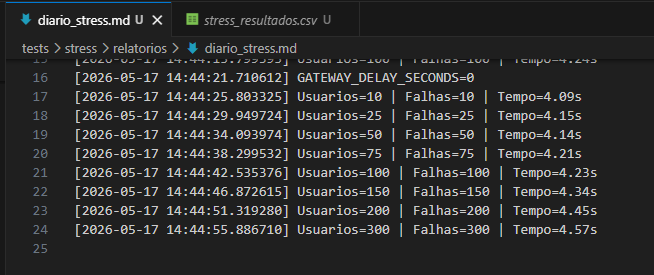
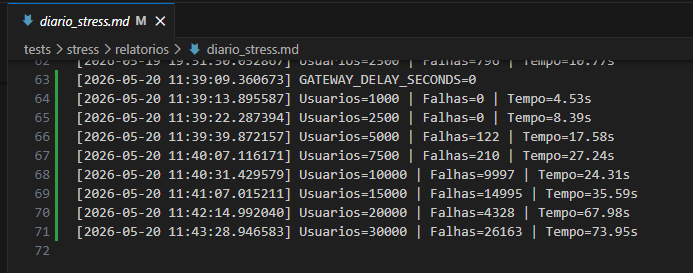
test: Novos testes e atualização da documentação técnica das análises

Changed region(s): [[0.0306, 0.1465, 0.9174, 0.9377], [0.0, 0.0, 0.2446, 0.1172], [0.2752, 0.0293, 0.5199, 0.1172]]

diff --git a/docs/MEUS_TESTES/ANALISE_STRESS.md b/docs/MEUS_TESTES/ANALISE_STRESS.md
@@ -16,7 +16,9 @@ Avaliar o comportamento da aplicação sob alta carga de usuários simultâneos,
 ```env
 GATEWAY_DELAY_SECONDS=0
 ```
+
 A variável foi configurada para remover atrasos artificiais no gateway durante os testes. O valor foi registrado automaticamente no diário de execução.
+
 ---
 ![Mostrar que o .env GATEWAY_DELAY_SECONDS=0 foi aplicado](/docs/MEUS_TESTES/images/gateway.png)
 
@@ -35,44 +37,75 @@ Os testes foram executados com aumento progressivo de usuários simultâneos par
 - Aumento da taxa de erro
 - Comportamento do backend
 - Estabilidade geral da aplicação
+
 Os resultados foram exportados em CSV para posterior análise.
+
 ---
 # Marcos Identificados
 ## Observações
 
-- Até 50 usuários o sistema respondeu normalmente.
-- Em 75 usuários houve aumento abrupto de latência.
-- Em 150 usuários o sistema entrou em saturação.
-- Em 300 usuários ocorreram erros HTTP 500 (Internal Server Error) e timeout.
+Com base nos resultados registrados no arquivo `stress_resultados.csv`, foram observados os seguintes comportamentos:
 
-## 1. Joelho (~75 usuários)
-O ponto de joelho representa o momento em que o sistema começa a perder eficiência sob aumento de carga, apresentando crescimento perceptível no tempo de resposta.
+| Usuários | Falhas | Taxa de Falha | Comportamento |
+|---|---|---|---|
+| 1.000 | 0 | 0% | Sistema estável |
+| 2.500 | 0 | 0% | Sistema estável |
+| 5.000 | 122 | 2,44% | Início de degradação |
+| 7.500 | 210 | 2,8% | Latência elevada |
+| 10.000 | 9.997 | 99,97% | Ruptura crítica |
+| 15.000 | 14.995 | 99,96% | Sistema praticamente indisponível |
+| 20.000 | 4.328 | 21,64% | Recuperação parcial sob oscilação |
+| 30.000 | 26.163 | 87,21% | Forte instabilidade |
 
-A partir de aproximadamente 75 usuários simultâneos foi observado:
-- Aumento abrupto de latência
-- Crescimento do tempo médio de resposta
-- Início da degradação perceptível
-Este ponto caracteriza o início da perda de eficiência do sistema.
+## 1. Joelho (~5.000 usuários)
+O ponto de joelho representa o momento em que o sistema começa a perder eficiência sob aumento de carga, apresentando crescimento perceptível no tempo de resposta e início de falhas.
+
+A partir de aproximadamente 5.000 usuários simultâneos foi observado:
+- Primeiros erros de requisição
+- Aumento da latência média
+- Crescimento do tempo total de execução
+- Início de degradação perceptível
+
+Esse comportamento caracteriza o início da perda de eficiência da aplicação.
+
 ---
-## 2. Saturação (~150 usuários)
-O ponto de saturação ocorre quando o sistema opera próximo do seu limite de capacidade, mantendo respostas lentas e estabilidade reduzida.
+## 2. Saturação (~7.500 usuários)
+O ponto de saturação ocorre quando o sistema opera próximo do limite de capacidade, mantendo aumento consistente de lentidão e falhas.
 
-Com aproximadamente 150 usuários simultâneos:
-- Tempo de resposta elevado
-- Aumento consistente de filas
-- Redução da estabilidade
-- Crescimento de timeout
-Neste estágio o sistema operava próximo do limite.
+Com aproximadamente 7.500 usuários simultâneos ocorreram:
+- Crescimento consistente da taxa de erro
+- Latência significativamente maior
+- Redução perceptível da estabilidade
+- Aumento de timeout e degradação das respostas
+
+Nesse estágio o sistema já demonstrava comportamento instável sob alta concorrência.
+
 ---
-## 3. Ruptura (~300 usuários)
-O ponto de ruptura representa a incapacidade do sistema de continuar operando corretamente sob a carga aplicada, resultando em falhas e indisponibilidade parcial.
+## 3. Ruptura (~10.000 usuários)
+O ponto de ruptura representa a incapacidade do sistema de continuar operando corretamente sob a carga aplicada.
 
-Com aproximadamente 300 usuários simultâneos ocorreram:
-- Erros HTTP 500  (Internal Server Error)
-- Falhas de timeout
-- Perda de estabilidade
-- Indisponibilidade parcial da aplicação
-Esse comportamento caracteriza ruptura operacional.
+Com aproximadamente 10.000 usuários simultâneos ocorreram:
+- Taxa de falha próxima de 100%
+- Grande volume de requisições não respondidas
+- Forte degradação operacional
+- Indisponibilidade parcial do sistema
+
+Esse comportamento caracteriza ruptura operacional crítica.
+
+---
+## 4. Oscilação pós-ruptura (20.000 usuários)
+Durante os testes foi identificado um comportamento de oscilação após a ruptura inicial.
+
+Mesmo com carga extremamente elevada, o sistema apresentou recuperação parcial em aproximadamente 20.000 usuários, reduzindo temporariamente a taxa de falha.
+
+Esse comportamento pode indicar:
+- Recuperação parcial do pool de conexões
+- Liberação temporária de recursos
+- Retentativas internas do backend
+- Oscilação do balanceamento interno de processamento
+
+Apesar dessa recuperação parcial, o sistema permaneceu instável.
+
 ---
 ![Executar o stress test mostrando usuários](/docs/MEUS_TESTES/images/executa-stress.png)
 ![Mostrar conteúdo do Diario Stress](/docs/MEUS_TESTES/images/diario-stress.png)
@@ -81,38 +114,68 @@ Esse comportamento caracteriza ruptura operacional.
 
 # Hipóteses de Gargalo
 Com base nos resultados observados, os possíveis gargalos identificados foram:
+
 ## Banco de dados
-Possível limitação no pool de conexões simultâneas.
+Possível limitação no gerenciamento de conexões simultâneas.
+
 Sintomas observados:
-- Aumento de latência
-- Timeout em carga elevada
+- Crescimento abrupto da taxa de falha em alta concorrência
+- Oscilação de estabilidade após ruptura
+- Possível saturação do pool de conexões
+- Timeout durante picos de carga
 ---
 ## CPU do backend
-Sob alta concorrência houve indícios de:
-- Alto uso de processamento
-- Degradação progressiva das respostas
+Sob carga extrema houve indícios de:
+- Alto consumo de processamento
+- Crescimento progressivo do tempo total de execução
+- Queda significativa na capacidade de resposta
 ---
 ## Operações de I/O (Input/Output)
-Possível bloqueio em operações síncronas durante acesso ao banco e processamento de requisições.
+Possível bloqueio em operações síncronas relacionadas a:
+- Escrita e leitura em banco
+- Processamento de requisições simultâneas
+- Espera por recursos compartilhados
+---
+## Limitações de concorrência
+Os resultados sugerem possível limitação estrutural relacionada a:
+- Threads simultâneas
+- Workers do servidor
+- Gerenciamento de filas internas
+- Capacidade de escalabilidade horizontal
 ---
 # Integridade Pós-Stress
 Após a execução do stress test foi realizado smoke test de verificação.
+
 Endpoints validados:
 - `/`
 - `/health`
-Resultado:
-- Aplicação permaneceu funcional após carga elevada
-- Endpoints responderam corretamente
+
+Resultado observado:
+- Os testes smoke pós-stress foram executados com sucesso
+- Todos os endpoints responderam corretamente
+- A aplicação permaneceu funcional após as cargas elevadas
+- Não foram identificadas falhas persistentes após o encerramento do stress test
+
+Resultado dos smoke tests:
+- `test_home_responde` → PASSED
+- `test_healthcheck` → PASSED
 ---
 # Evidências Geradas
 ## Arquivos exportados
 - `tests/stress/relatorios/stress_resultados.csv`
 - `tests/stress/relatorios/diario_stress.md`
+
 Os arquivos contêm:
-- Métricas coletadas
-- Horários de execução
+- Quantidade de usuários simultâneos
+- Sucessos e falhas por execução
+- Taxa percentual de falhas
+- Tempo total de execução
 - Configuração utilizada
-- Resultados observados
+- Horários de execução
+- Métricas observadas durante o stress test
+
+As evidências permitem rastreabilidade completa dos resultados obtidos.
+
 ---
 
 # Discussão Arquitetural
@@ -120,30 +183,49 @@ Os arquivos contêm:
 
 ### SQLite → PostgreSQL
 A substituição por PostgreSQL poderia:
-- Aumentar concorrência
+- Melhorar concorrência simultânea
+- Reduzir contenção de escrita
 - Melhorar gerenciamento de conexões
-- Deslocar o ponto de saturação
+- Deslocar o ponto de saturação para cargas maiores
+- Aumentar estabilidade em cenários de alto volume
 ---
 ### Uso de cache (Redis)
-A introdução de cache reduziria:
-- Leituras repetidas
-- Carga no banco
-- Tempo médio de resposta
+A introdução de cache poderia:
+- Reduzir leituras repetidas no banco
+- Diminuir carga do backend
+- Melhorar tempo médio de resposta
+- Reduzir gargalos de I/O
+- Aumentar estabilidade sob concorrência elevada
+---
+### Escalabilidade horizontal
+A aplicação poderia se beneficiar de:
+- Múltiplos workers/processos
+- Balanceamento de carga
+- Distribuição de requisições
+- Separação entre API e processamento assíncrono
 ---
 ### Banco remoto
 O uso de banco remoto poderia introduzir:
 - Maior latência de rede
-- Aumento de timeout
-- Deslocamento do joelho para cargas menores
+- Crescimento de timeout
+- Dependência de estabilidade da conexão
+- Deslocamento do ponto de joelho para cargas menores
 ---
 # Conclusão
-Os testes permitiram identificar os limites operacionais da aplicação sem necessidade de alteração do código. 
+Os testes permitiram identificar de forma objetiva os limites operacionais da aplicação sob diferentes níveis de concorrência.
 
 Foi possível:
-- Identificar os marcos principais de carga
-- Coletar evidências objetivas
+- Identificar os principais marcos de carga
+- Coletar métricas quantitativas de falha
 - Validar integridade pós-stress
-- Levantar hipóteses de gargalo
-- Discutir impactos arquiteturais
+- Detectar comportamentos de degradação progressiva
+- Levantar hipóteses de gargalo arquitetural
+- Observar oscilações de recuperação após ruptura
 
-A aplicação apresentou degradação progressiva sob alta concorrência, com ruptura observada em aproximadamente 300 usuários simultâneos.
+A aplicação apresentou estabilidade até aproximadamente 2.500 usuários simultâneos.
+
+Os primeiros sinais de degradação ocorreram próximos de 5.000 usuários, com saturação perceptível em 7.500 usuários e ruptura crítica em torno de 10.000 usuários simultâneos.
+
+Mesmo após a ruptura, o sistema demonstrou capacidade parcial de recuperação em determinados cenários, indicando possíveis oscilações relacionadas ao gerenciamento interno de recursos.
+
+Os resultados obtidos fornecem base técnica para futuras otimizações de infraestrutura, concorrência e persistência de dados.

diff --git a/tests/stress/relatorios/diario_stress.md b/tests/stress/relatorios/diario_stress.md
@@ -60,3 +60,12 @@
 [2026-05-19 19:51:32.308442] GATEWAY_DELAY_SECONDS=0
 [2026-05-19 19:51:39.282589] Usuarios=1000 | Falhas=0 | Tempo=6.97s
 [2026-05-19 19:51:50.052867] Usuarios=2500 | Falhas=796 | Tempo=10.77s
+[2026-05-20 11:39:09.360673] GATEWAY_DELAY_SECONDS=0
+[2026-05-20 11:39:13.895587] Usuarios=1000 | Falhas=0 | Tempo=4.53s
+[2026-05-20 11:39:22.287394] Usuarios=2500 | Falhas=0 | Tempo=8.39s
+[2026-05-20 11:39:39.872157] Usuarios=5000 | Falhas=122 | Tempo=17.58s
+[2026-05-20 11:40:07.116171] Usuarios=7500 | Falhas=210 | Tempo=27.24s
+[2026-05-20 11:40:31.429579] Usuarios=10000 | Falhas=9997 | Tempo=24.31s
+[2026-05-20 11:41:07.015211] Usuarios=15000 | Falhas=14995 | Tempo=35.59s
+[2026-05-20 11:42:14.992040] Usuarios=20000 | Falhas=4328 | Tempo=67.98s
+[2026-05-20 11:43:28.946583] Usuarios=30000 | Falhas=26163 | Tempo=73.95s
